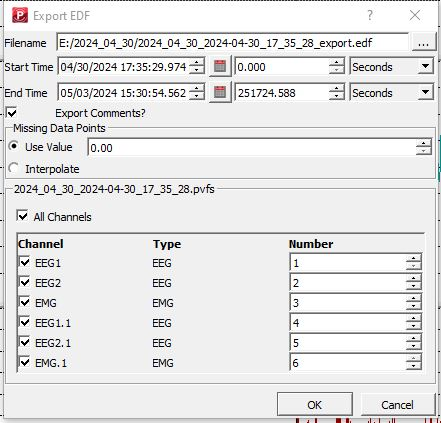
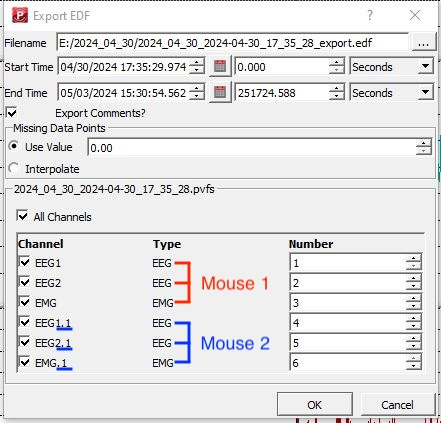
Update figure for eeg-emg export guide

Changed region(s): [[0.3832, 0.6147, 0.619, 0.8605], [0.1179, 0.7683, 0.1769, 0.8298], [0.1179, 0.8605, 0.1769, 0.8913]]

diff --git a/Software/software-guide/export-eeg-emg.md b/Software/software-guide/export-eeg-emg.md
@@ -24,6 +24,6 @@ required you export data in the `.edf` format:
 
 ![Export EDF pop-up window](https://raw.githubusercontent.com/GergelyTuri/chronicSleepRecordings/master/images/export-edf.JPG)
 
-**Figure 1:** _A pop-up window named 'Export EDF' will appear after selecting the 'File > Export > EDF' option in the top toolbar._
+**Figure 1:** _A pop-up window named 'Export EDF' will appear after selecting the 'File > Export > EDF' option in the top toolbar. Note how the EEG/EMG channel names of one amplifier are distinguished from another amplifier (e.g. EEG1 vs. EEG1.1, EMG vs. EMG.1, etc.)_
 
 [← Return to setup guide](../readme.md#setup-guide)
